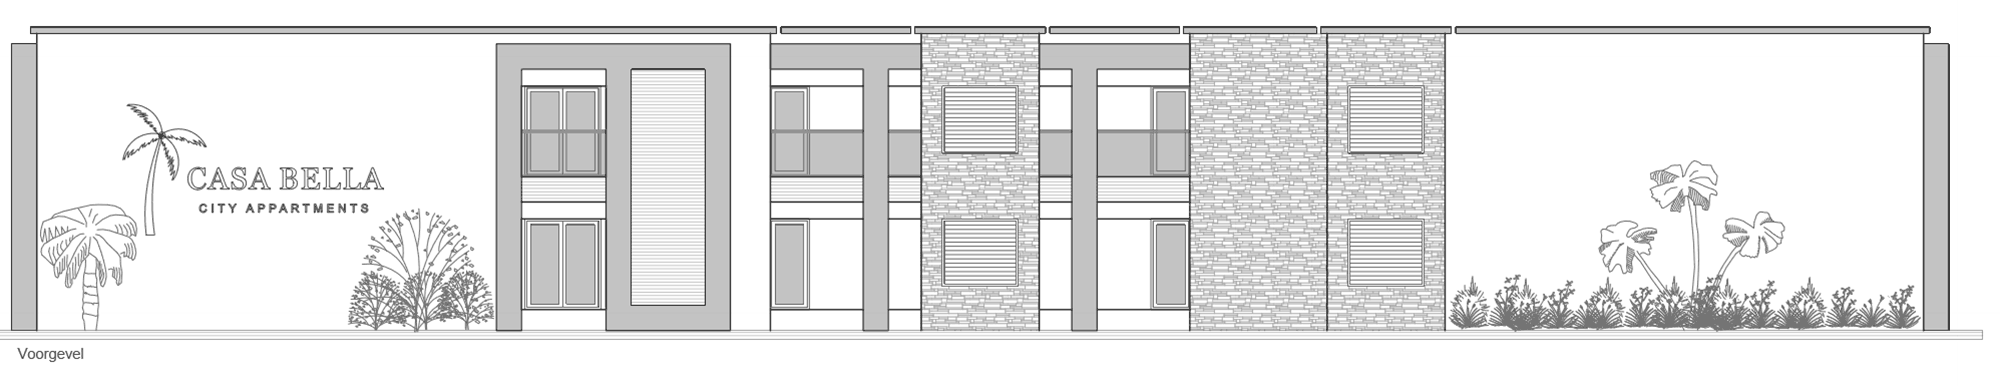
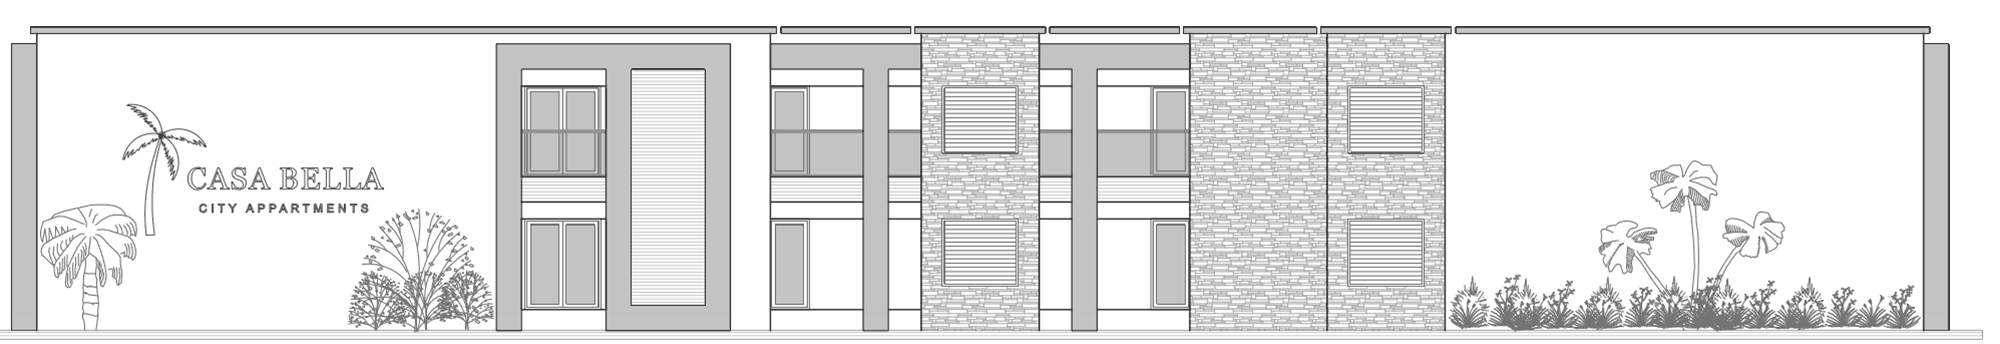
Drop the technical labels from the City drawings
The captions under the site layout, street front and apartment plan no
longer give plan numbers, scales or the Dutch drawing titles; they just
say what each drawing shows. The "Terrein Indeling" and "Voorgevel"
labels printed on the drawings themselves are cropped off.

Claude-Session: https://claude.ai/code/session_01Ek5XzFLb45vpiqUH3oKPhF

Changed region(s): [[0.0, 0.0581, 0.992, 0.9884], [0.31, 0.6686, 0.372, 0.6977]]

diff --git a/city/index.html b/city/index.html
@@ -430,8 +430,8 @@
                   loading="lazy" decoding="async" />
               </a>
               <figcaption>
-                Extract from plan BT-01, scale 1:100. Bays of 4,750 + 4,750 mm.
-                The shaded room belongs to the next apartment.
+                Typical two-bedroom apartment. The shaded room belongs to the
+                next apartment.
               </figcaption>
             </figure>
           </article>
@@ -447,11 +447,11 @@
               <a href="/assets/img/city/plan-site.png" target="_blank" rel="noopener">
                 <img
                   src="/assets/img/city/plan-site.png"
-                  width="1200" height="2529"
-                  alt="Site layout BT-03: apartments wrap three sides of a long central courtyard, with a parking court and one-way loop beside the shorter wing."
+                  width="1200" height="2496"
+                  alt="Site layout: apartments wrap three sides of a long central courtyard, with a parking court and one-way loop beside the shorter wing."
                   loading="lazy" decoding="async" />
               </a>
-              <figcaption>Site layout (terrein indeling) BT-03 · scale 1:500</figcaption>
+              <figcaption>Site layout</figcaption>
             </figure>
 
             <div data-reveal>
@@ -487,11 +487,11 @@
             <a href="/assets/img/city/elevation-front.png" target="_blank" rel="noopener">
               <img
                 src="/assets/img/city/elevation-front.png"
-                width="2000" height="386"
-                alt="Street elevation BT-02: the two-storey front with the Casa Bella sign, stone-clad towers and louvred windows."
+                width="2000" height="344"
+                alt="Street front: the two-storey front with the Casa Bella sign, stone-clad towers and louvred windows."
                 loading="lazy" decoding="async" />
             </a>
-            <figcaption>Street elevation (voorgevel) BT-02 · scale 1:100</figcaption>
+            <figcaption>Street front</figcaption>
           </figure>
         </div>
       </section>

diff --git a/README.md b/README.md
@@ -89,7 +89,7 @@ tone with `tone-paper`, `tone-stone` or `tone-dusk` (dusk is the default).
 Its images live in `assets/img/city/` (shared with the TV pages): ten renders,
 each with an `@800` copy for phones, and the architect's drawings as PNGs on
 white — `plan-unit.png` (BT-01), `elevation-front.png` (BT-02) and
-`plan-site.png` (BT-03). Every image of the building is a render, and the page
+`plan-site.png` (BT-03), with the drawing labels cropped off. Every image of the building is a render, and the page
 says so beside each one. Brochure figures that are still blank — unit prices,
 the payment percentages, HOA — are left off rather than shown as zeros;
 `CONTENT.md` lists them.
